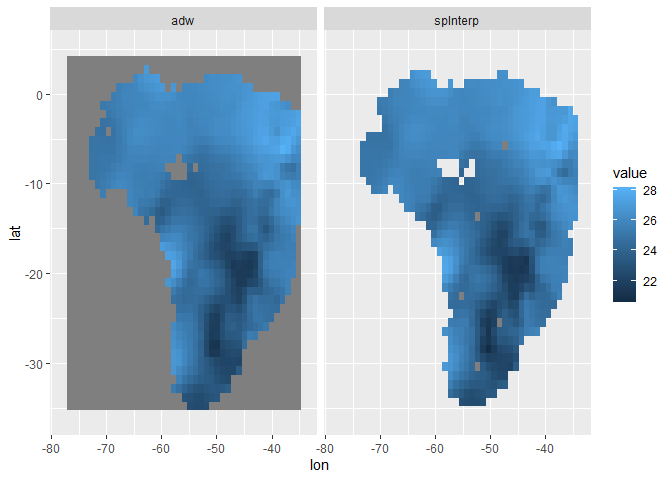
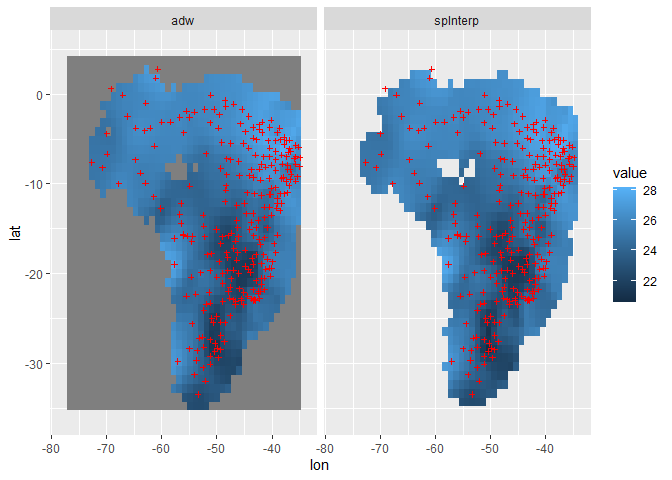
fix `dist=0` for adw

diff --git a/README.md b/README.md
@@ -24,8 +24,8 @@ remotes::install_github("rpkgs/spInterp")
 
 ## On top of
 
-1.  <https://github.com/rrodrigojrr/ADW>
-2.  <https://github.com/PanfengZhang/adw>
+1.  <https://github.com/PanfengZhang/adw>
+2.  <https://github.com/rrodrigojrr/ADW>
 
 ## Performance
 
@@ -39,33 +39,34 @@ loc <- TempBrazil[, 1:2] %>% set_names(c("lon", "lat"))
 dat <- TempBrazil[, 3] %>% as.matrix()  # Vector with observations in points
 
 range <- c(-78, -34, -36, 5)
-
+res = 1
 # Compare with the R package adw
 dd = cbind(loc, value = dat[,1])
 system.time({
-  r_adw <- adw::adw(dd, range[1], range[2], range[3], range[4], cdd = 450*1e3, gridSize = 1)  
+  r_adw <- adw::adw(dd, range[1], range[2], range[3], range[4], cdd = 450*1e3, gridSize = res)  
 })
 #>  用户  系统  流逝 
-#> 60.53  0.28 60.81
+#> 61.55  0.21 61.75
 
 system.time({
-  r_spInterp <- spInterp_adw(loc, dat, range, res = 1, cdd = 450)
+  r <- spInterp_adw(loc, dat, range, res = res, cdd = 450)
 })
 #> 用户 系统 流逝 
-#> 0.60 0.00 0.59
+#> 0.64 0.00 0.64
 ```
 
 ``` r
 df = rbind(
-  r_spInterp %$% cbind(coord, value = predicted[, 1], method = "spInterp"), 
+  r %$% cbind(coord, value = predicted[, 1], method = "spInterp"), 
   cbind(r_adw, method = "adw"))
 
 library(ggplot2)
 ggplot(df, aes(lon, lat)) + 
   geom_raster(aes(fill = value)) +
-  # geom_point(data = loc, size = 2.5, shape = 3, color = "red") +
+  geom_point(data = loc, size = 1, shape = 3, color = "red") +
   facet_wrap(~method) + 
-  lims(x = range[1:2], y = range[3:4])
+  lims(x = range[1:2], y = range[3:4]) -> p
+p
 #> Warning: Raster pixels are placed at uneven horizontal intervals and will be
 #> shifted. Consider using geom_tile() instead.
 #> Warning: Raster pixels are placed at uneven vertical intervals and will be
@@ -74,6 +75,10 @@ ggplot(df, aes(lon, lat)) +
 ```
 
 <img src="man/figures/README-unnamed-chunk-3-1.png" width="100%" />
+
+``` r
+# Ipaper::write_fig(p, "figure1.pdf", 10, 6)
+```
 
 `spInterp` used the exactly same algrithm as that of `adw` package. But
 unlike `adw`, `spInterp` avoids using `sf` for spatial data processing
